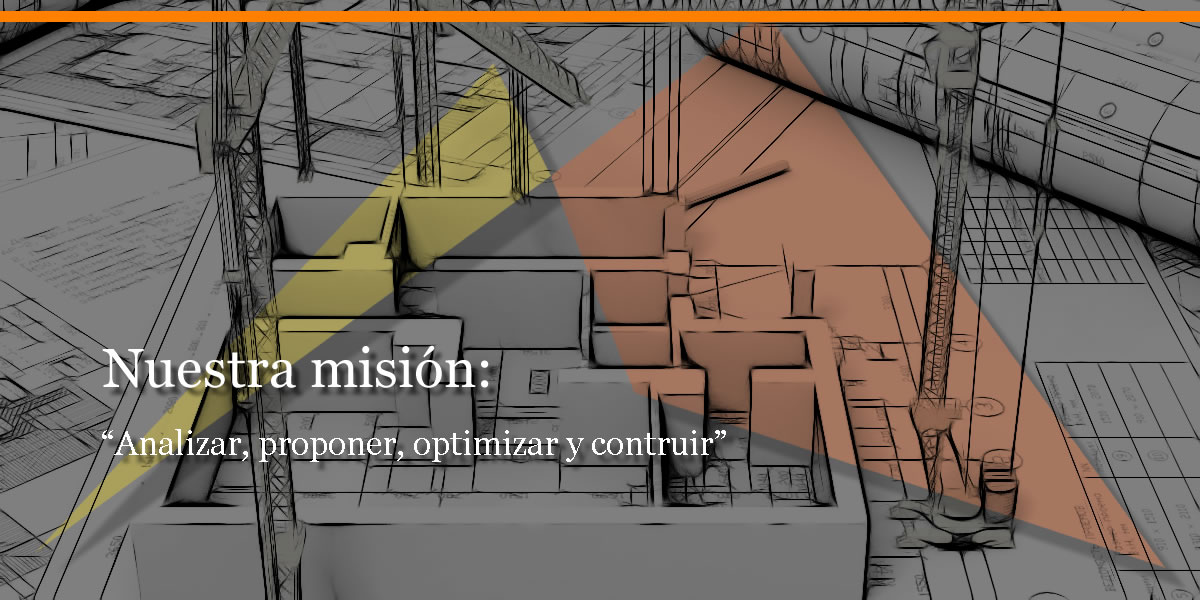
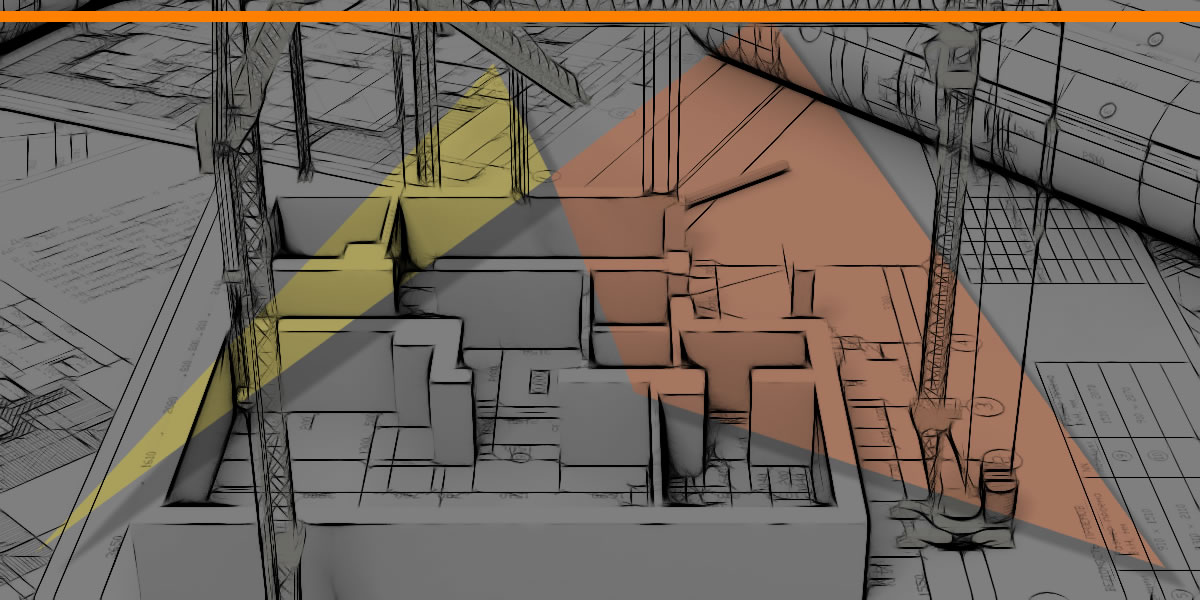
lalala

Changed region(s): [[0.0925, 0.72, 0.6167, 0.78], [0.0925, 0.57, 0.4317, 0.66]]

diff --git a/css/style.css b/css/style.css
@@ -1,21 +1,9 @@
 @charset "UTF-8";
 
 body {
-	background-color: #333333;
+	background-color: black;
 	padding-top: 5%;
-}
-
-/* footer */
-
-.footer {
-	background-color: #2e3436;
-	color: white;
-}
-
-.sub-footer {
-	background-color: #333333;
-	width: 90%;
-
+	overflow-x:hidden; 
 }
 
 .central-body {
@@ -194,22 +182,28 @@ hr{
   margin: auto;
 }
 
-.slideshow-container h1 {
+.img-slide{
+	z-index: -1;
+}
+
+.titleSlide1 {
 	position: absolute;
-	top: 20%;
+	top: 18%;
 	left: 15%;
 	width: 100%;
 	color: white;
-	font-size: -webkit-xxx-large;
+	font-size: 3vw;
+	margin-bottom: 5%;
 }
 
 .text {
-	width:30%;
+	width:60%;
 	position: absolute;
-	top: 38%;
+	top: 40%;
 	left: 15%;
 	color: white;
-	font-size: large;
+	font-size: 1vw;
+	margin-bottom: 5%;
 }
 
 #slideButton{
@@ -220,9 +214,29 @@ hr{
 	color: white;
 	border: 0px;
     border-radius: 6px;
-	font-size: large;
+	font-size: 1vw;
 	padding: 6px 6px 6px 6px;
 	top: 60%;
+}
+
+.titleSlide2 {
+	position: absolute;
+	width: 100%;
+	color: white;
+	font-size: 3vw;
+	left: 9%;
+	top: 55%;
+	text-shadow: 10px 10px 8px black;
+}
+
+.text3{
+	width:60%;
+	position: absolute;
+	top: 32%;
+	left: 15%;
+	color: white;
+	font-size: 1vw;
+	margin-bottom: 5%;
 }
 
 
@@ -328,23 +342,82 @@ img.flex-item{
 	padding-bottom: 2%;
 }
 
+/* footer */
+
+.footer {
+	background-color: #2e3436;
+	color: white;
+	font-size: medium;
+}
+
+.sub-footer {
+	background-color: #333333;
+	border-top: 1px solid black;
+	width: 100%;
+	padding-top: 1%;
+    padding-left: 10%;
+    padding-bottom: 1%;
+}
+
+.footerLink{
+	color: orange;
+	width: 100%;
+}
+
+.footerLink:hover{
+	color:orange;
+	font-weight:bold;
+	text-decoration: none;
+}
+
+.list-group-item{
+	background-color: inherit;
+	border: 0px;
+	border-bottom: 1px solid gray;
+}
+
+.findUs ul{
+	width: 100%;
+}
+
 /* FORMS */
+
+.contact{
+	width: 100%;
+}
 
 input[type=text]{
 	background-color: #191919;
-	margin: 0 5px 5px 5px;
+	margin-bottom: 5px;
+	margin-top: 5px;
 	color: white;
 	border: 0px;
     border-radius: 6px;
+    width: 80%;
+    height: auto;
+}
+
+.send{
+	width: 23%;
+	border-radius: 6px;
+	background-color: orange;
+	border: 0px;
+	color: black;
 }
 
 textarea {
 	background-color: #191919;
-	margin: 0 5px 5px 5px;
+	margin-bottom: 5px;
+	margin-top: 5px;
 	color: white;
 	border: 0px;
     border-radius: 6px;
+    width: 80%;
+    min-height: 69px;
+    resize: none;
 }
+
+/* MEDIA QUERIES */
 
 @media (max-width: @screen-xs) {
     body{font-size: 10px;}
@@ -361,7 +434,11 @@ textarea {
 	}
 	
 	.text{
-		display: hidden;
+		display: none;
+	}
+	
+	.text3{
+		display: none;
 	}
 	
 	.flex-item {

diff --git a/contact.php b/contact.php
@@ -1,0 +1,1 @@
+<?php
